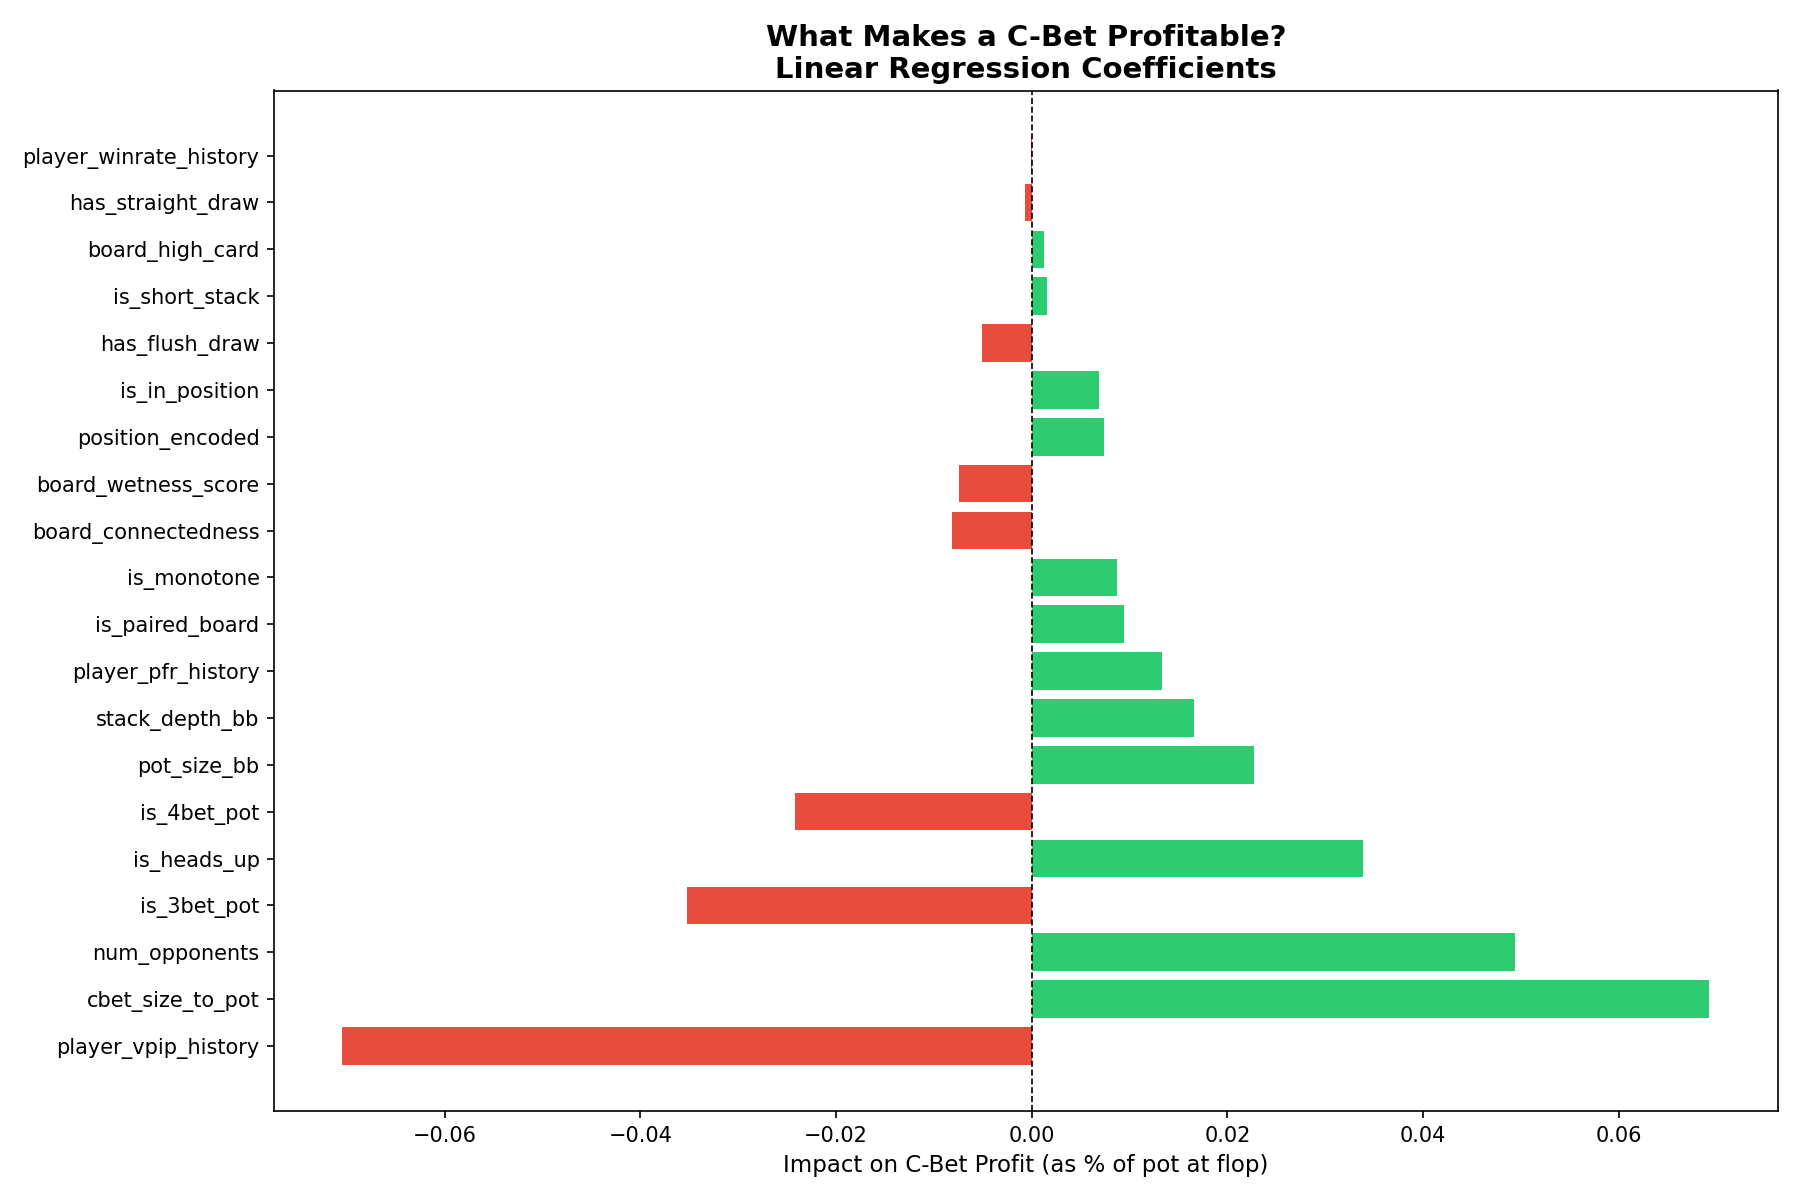
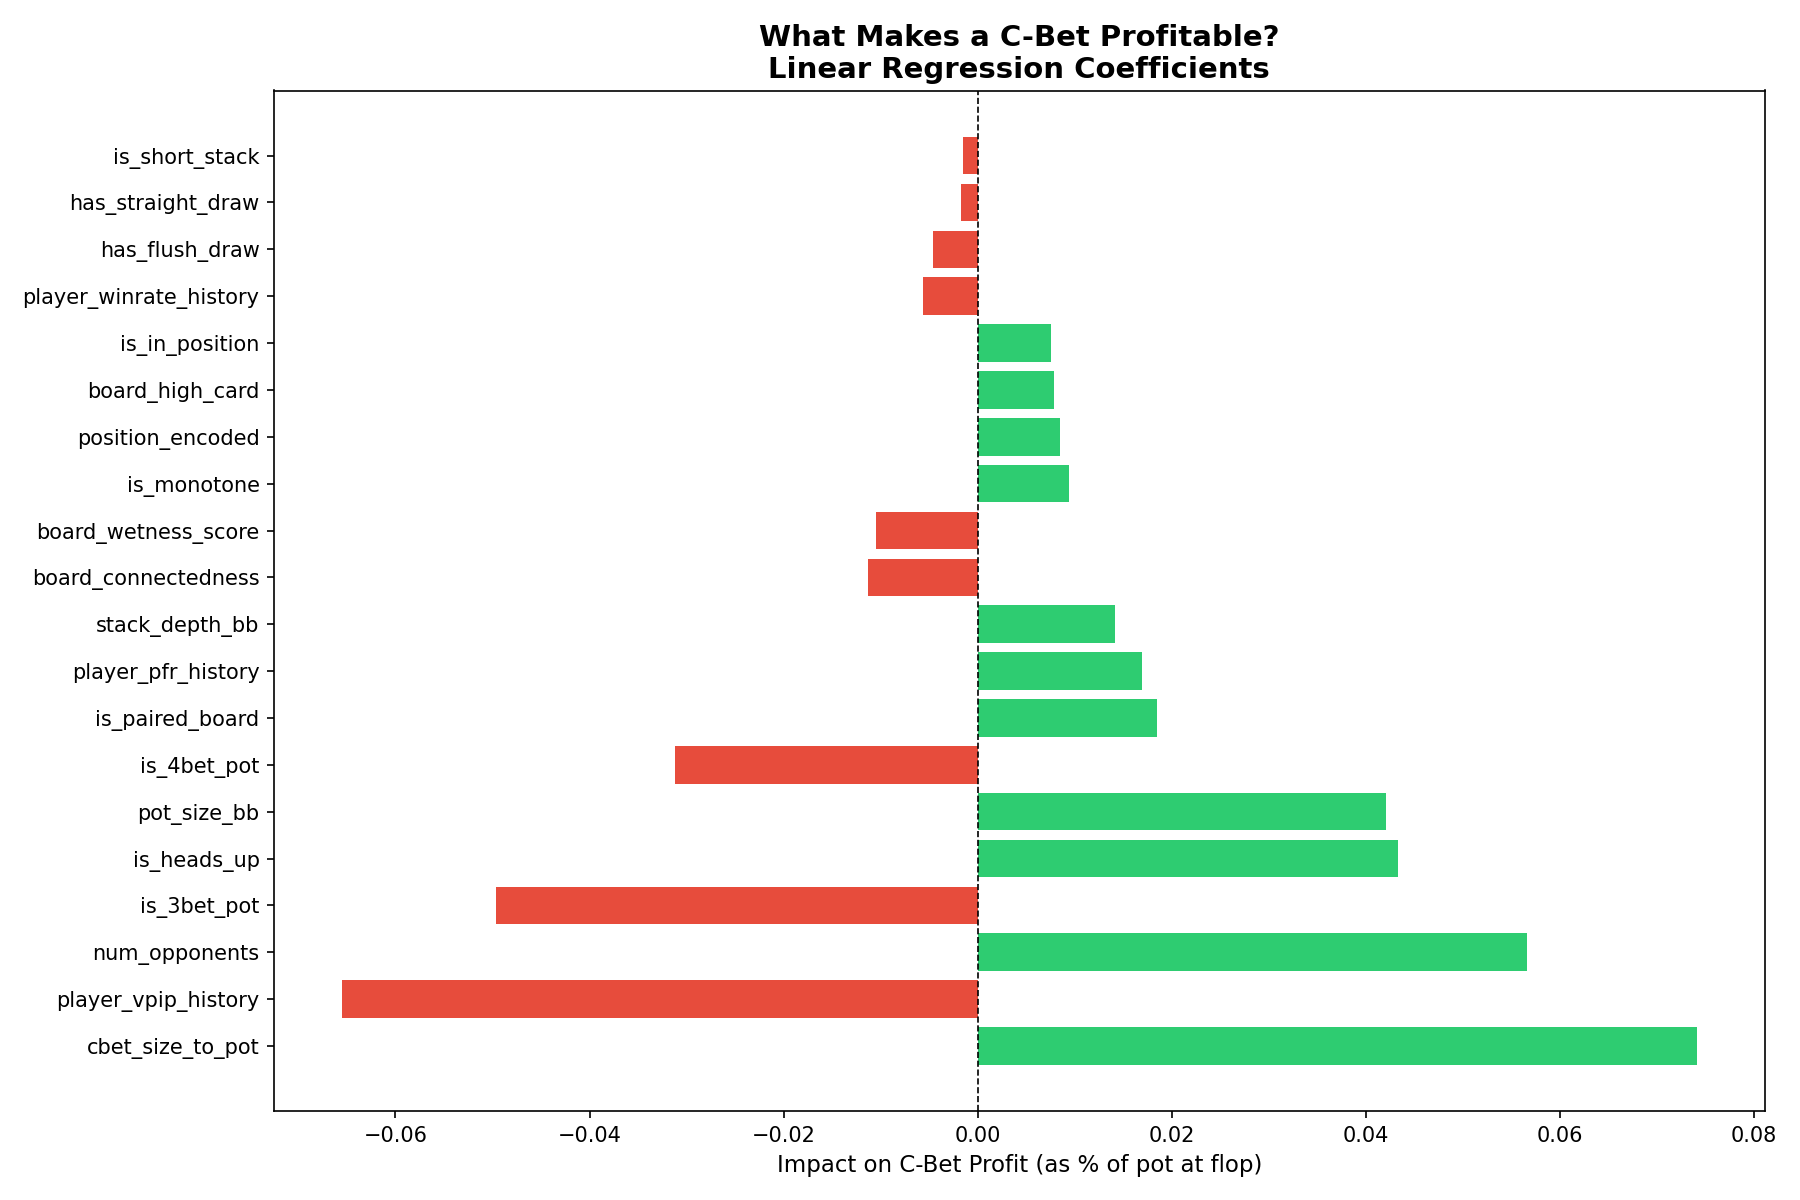
Filter low-quality hands, retrain model, update predict.py thresholds
Removed 2,635 hands (19,317 → 16,682):
- Tiny c-bets < 0.15x pot (parsing artifacts / near-checks)
- Extreme overbets > 1.5x pot (likely shoves misread as flop bets)
- C-bets > 50% of starting stack (player effectively all-in)
- 3-bet pots < 8bb (logically impossible pot sizes)
- Single-raised pots < 5bb (min-raise opens, low-level game indicator)
- Stacks < 30bb (push-fold dynamics dominate)

Updated predict.py thresholds to new test set distribution (n=3,337):
p25=0.1664, p50=0.2127, p75=0.2646

diff --git a/poker_model/src/feature_engineering.py b/poker_model/src/feature_engineering.py
@@ -91,7 +91,31 @@ cbet_df["pot_size_bb"] = (
 ).clip(0, 200)
 
 # ─────────────────────────────────────────────
-# Step 4i — Board Texture Features
+# Step 4i — Quality Filters
+# ─────────────────────────────────────────────
+print(f"\nBefore quality filters: {len(cbet_df):,}")
+
+# Category 1: Logically inconsistent hands
+cbet_df = cbet_df[cbet_df["cbet_size_to_pot"].between(0.15, 1.5)]
+print(f"After sizing filter (0.15–1.5x pot): {len(cbet_df):,}")
+
+cbet_df["_cbet_size_bb"] = cbet_df["cbet_size_to_pot"] * cbet_df["pot_size_bb"]
+cbet_df = cbet_df[cbet_df["_cbet_size_bb"] <= cbet_df["stack_depth_bb"] * 0.5]
+cbet_df = cbet_df.drop(columns=["_cbet_size_bb"])
+print(f"After shove filter (cbet ≤ 50% of stack): {len(cbet_df):,}")
+
+cbet_df = cbet_df[~((cbet_df["is_3bet_pot"] == 1) & (cbet_df["pot_size_bb"] < 8))]
+print(f"After 3bet pot sanity filter (≥8bb if 3bet): {len(cbet_df):,}")
+
+# Category 2: Low-level game indicators
+cbet_df = cbet_df[~((cbet_df["is_3bet_pot"] == 0) & (cbet_df["pot_size_bb"] < 5))]
+print(f"After min-raise filter (single-raised pot ≥5bb): {len(cbet_df):,}")
+
+cbet_df = cbet_df[cbet_df["stack_depth_bb"] >= 30]
+print(f"After stack filter (≥30bb): {len(cbet_df):,}")
+
+# ─────────────────────────────────────────────
+# Step 4j — Board Texture Features
 # ─────────────────────────────────────────────
 def parse_card(card_str):
     """Parse a card string like 'Ah' into (rank, suit)"""

diff --git a/poker_model/src/predict.py b/poker_model/src/predict.py
@@ -170,13 +170,13 @@ def evaluate_cbet(
         sorted(contributions.items(), key=lambda x: abs(x[1]), reverse=True)
     )
 
-    # Thresholds derived from actual test-set prediction distribution (n=3,864):
-    #   p25=0.1712  p50=0.2114  p75=0.2564
-    if ev_bb > 0.2564:
+    # Thresholds derived from actual test-set prediction distribution (n=3,337):
+    #   p25=0.1664  p50=0.2127  p75=0.2646
+    if ev_bb > 0.2646:
         rec, conf = "C-BET — strong spot", "high"       # top 25%
-    elif ev_bb > 0.2114:
+    elif ev_bb > 0.2127:
         rec, conf = "C-BET — marginal spot", "low"      # 50th–75th percentile
-    elif ev_bb > 0.1712:
+    elif ev_bb > 0.1664:
         rec, conf = "CHECK — marginal spot", "low"      # 25th–50th percentile
     else:
         rec, conf = "CHECK — poor c-bet spot", "high"   # bottom 25%